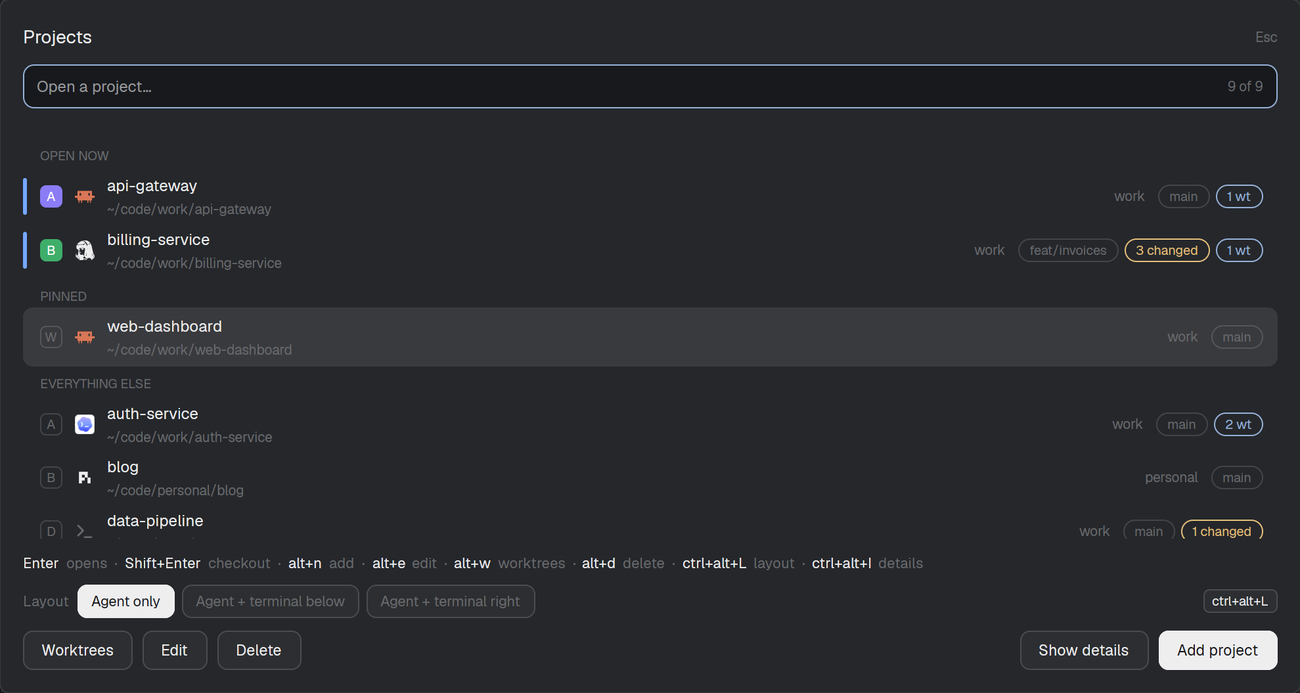
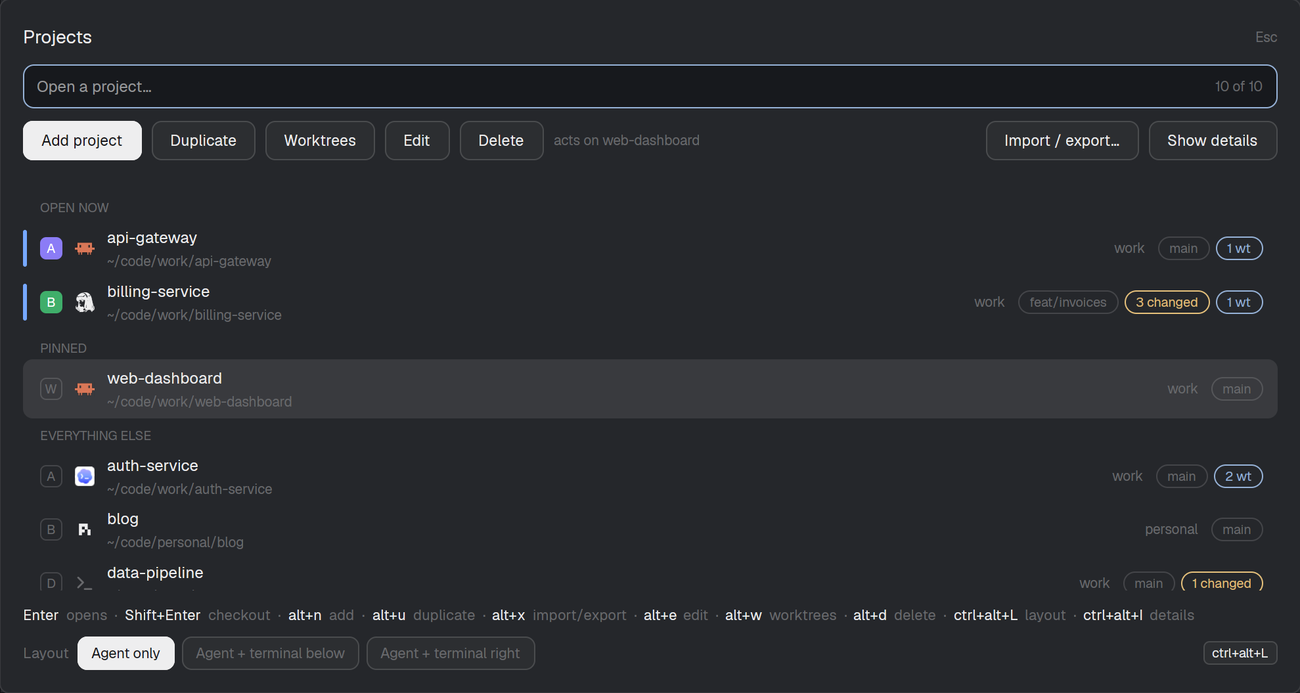
Retake the screenshots and tour GIF; cmd+alt+B goes back on a Mac
- Every README screenshot, preview.png and the tour GIF are retaken with demo projects: the
  toolbar under the search box, the Template row and the new key hints. New screenshots for
  the Template card, the Duplicate editor and the Import / export screen, in the README.
- herdr owns cmd+B on a Mac, so the way back there is cmd+alt+B (like the layout and
  details keys); Linux keeps alt+b. Titles and hints show the right one per platform.
- The demo file accepts view: duplicate (a copy of the project, or a new project from the
  template). Tests: 219.

diff --git a/mods/project-presets/main.js b/mods/project-presets/main.js
@@ -1,6 +1,6 @@
 // Project presets: a picker of configured git checkouts, each with its own worktree and startup
 // settings. Type to filter, ↑/↓ and Enter to open, Shift+Enter for the main checkout, Add project / Edit / Worktrees / Delete
-// buttons (or alt/ctrl/cmd + n, e, w, d), alt/ctrl/cmd + b to go back a screen. Herdr itself closes a popup on Esc and
+// buttons (or alt/ctrl/cmd + n, e, w, d), alt+b (cmd+alt+B on a Mac) to go back a screen. Herdr itself closes a popup on Esc and
 // never passes that key to the mod, so Esc can only close the picker.
 
 import { View, div, image, svg } from "gpui-kit";
@@ -22,6 +22,8 @@ const mac = () => platformNow === "macos";
 let homeDir;
 const homeOf = () => (homeDir ??= home());
 const key = (letter, other = "alt") => (mac() ? `⌘${letter.toUpperCase()}` : `${other}+${letter}`);
+/** The way back a screen. Herdr closes a popup on Esc itself, and it owns cmd+B on a Mac, so a Mac gets the cmd+alt chord (like the layout and details keys). */
+const backKey = () => (mac() ? "⌘⌥B" : "alt+b");
 // Herdr binds a bare alt+l to moving between panes, so the layout key needs ctrl (⌘ on macOS) as well, like the open key.
 const FOOTER_SIZE = 12;
 const LAYOUT_HINT = () => (mac() ? "⌘⌥L" : "ctrl+alt+L");
@@ -190,7 +192,8 @@ export default class ProjectPresets extends View {
       this.edit(project ?? blankProject(), project ? this.projects.indexOf(project) : null);
       if (d.section) this.showSection(d.section);
       if (d.focus) this.fields.find(([k]) => k === d.focus)?.[1].focus();
-    } else if (d.view === "backup") {
+    } else if (d.view === "duplicate") this.duplicateSelected(); // a copy of the project, or a new project from the template when that row is picked
+    else if (d.view === "backup") {
       this.openBackup();
       if (d.text) this.backupPath.set_value(d.text);
       if (d.note) this.backupNote = { text: d.note, bad: Boolean(d.bad) };
@@ -292,7 +295,7 @@ export default class ProjectPresets extends View {
   footer(t, p, list) {
     const hints = list
       ? [["Enter", "opens"], ["Shift+Enter", "checkout"], [key("n"), "add"], [key("u"), "duplicate"], [key("x"), "import/export"], [key("e"), "edit"], [key("w"), "worktrees"], [key("d"), "delete"], [LAYOUT_HINT(), "layout"], [DETAIL_HINT(), "details"]]
-      : [["Enter", "creates"], [key("b"), "back"], ["Esc", "closes"]];
+      : [["Enter", "creates"], [backKey(), "back"], ["Esc", "closes"]];
     const current = this.layoutNameFor(p);
     const lit = this.layoutLit;
     const choice = (name, label) => {
@@ -683,7 +686,7 @@ export default class ProjectPresets extends View {
       this.backupConfirm = null;
       const missing = [];
       for (const p of added) if (!p.template && p.path && !(await folderExists(expandHome(p.path, homeOf())))) missing.push(p.name);
-      this.setNote(missing.length ? `${summary} ${missing.length} folder(s) don't exist on this machine: ${missing.slice(0, 5).join(", ")}${missing.length > 5 ? "…" : ""}. Go back (${key("b")}), then press ${key("e")} on each to fix its folder.` : summary);
+      this.setNote(missing.length ? `${summary} ${missing.length} folder(s) don't exist on this machine: ${missing.slice(0, 5).join(", ")}${missing.length > 5 ? "…" : ""}. Go back (${backKey()}), then press ${key("e")} on each to fix its folder.` : summary);
     } catch (e) {
       logError("import", e);
       this.setNote(`Import failed: ${e.message}`, true);
@@ -714,7 +717,7 @@ export default class ProjectPresets extends View {
   renderBackup(t, cx) {
     const confirmAction = this.backupConfirm;
     return v_flex().gap(10)
-      .child(this.title(t, "Import and export config", `${key("b")} back · Esc closes`))
+      .child(this.title(t, "Import and export config", `${backKey()} back · Esc closes`))
       .child(div().text_size(12).text_color(t.dim).child("Export saves your project list, layouts and settings to one file. Import brings them back, on this machine or another. Paths under your home folder are saved as ~, so an exported file works on a machine with a different user name."))
       .child(div().text_size(11.5).text_color(t.dim).child("File"))
       .child(h_flex().gap(8).items_center()
@@ -1026,7 +1029,7 @@ export default class ProjectPresets extends View {
       .when(w.locked, (el) => el.child(div().text_size(11).text_color(t.blocked).child("locked")))
       .child(div().text_size(11).text_color(w.merged ? t.done : t.dim).child(w.merged ? "merged" : "unmerged"));
     return v_flex().gap(10).min_h(0)
-      .child(this.title(t, `Worktrees · ${this.target.name}`, `${key("b")} back · Esc closes`))
+      .child(this.title(t, `Worktrees · ${this.target.name}`, `${backKey()} back · Esc closes`))
       .child(h_flex().h(36).flex_none().px(10).items_center().rounded(9).border_1().border_color(t.accent).bg(t.background)
         .child(Input.new(this.wtSearch).flex_1().h_full().text_size(12.8).text_color(t.foreground)))
       .when(Boolean(this.error), (el) => el.child(div().text_size(12).text_color(t.blocked).child(this.error)))
@@ -1049,7 +1052,7 @@ export default class ProjectPresets extends View {
   renderName(t) {
     const p = this.target;
     return v_flex().gap(10)
-      .child(this.title(t, `New worktree · ${p.name}`, `${key("b")} back · Esc closes`))
+      .child(this.title(t, `New worktree · ${p.name}`, `${backKey()} back · Esc closes`))
       .child(h_flex().h(36).px(10).items_center().rounded(9).border_1().border_color(t.accent).bg(t.background)
         .child(Input.new(this.nameInput).flex_1().h_full().text_size(12.8).text_color(t.foreground)))
       .child(div().text_size(12).text_color(this.error ? t.blocked : t.dim).child(this.error ?? (this.preview ? `branch: ${this.preview}` : "")))
@@ -1135,7 +1138,7 @@ export default class ProjectPresets extends View {
       ],
     };
     return v_flex().gap(0).min_h(0)
-      .child(this.title(t, { add: "Add project", edit: "Edit project", duplicate: "Duplicate project", template: "Edit template", fromTemplate: "New project from the template" }[this.editKind ?? "add"], `Tab next field · ${key("s", "ctrl")} save · ${key("b")} back · Esc closes`))
+      .child(this.title(t, { add: "Add project", edit: "Edit project", duplicate: "Duplicate project", template: "Edit template", fromTemplate: "New project from the template" }[this.editKind ?? "add"], `Tab next field · ${key("s", "ctrl")} save · ${backKey()} back · Esc closes`))
       .child(h_flex().pt(10).gap(6)
         .children(SECTIONS.map(([id, name]) => this.button(t, `pp-sec-${id}`, name, this.section === id, () => this.showSection(id)))))
       .child(v_flex().min_h(0).h(430).overflow_y_scrollbar().pr(8).children(sections[this.section]()))

diff --git a/mods/project-presets/demo.js b/mods/project-presets/demo.js
@@ -1,6 +1,6 @@
 // Documentation screenshots: `~/.config/herdr-app/data/project-presets.demo` (JSON) opens the picker
 // already in a given view, so each screen can be captured the same way every time. Absent by default.
-//   { "view": "list|edit|delete|name|worktrees|backup|busy", "project": "api-gateway", "query": "apgw",
+//   { "view": "list|edit|delete|name|worktrees|backup|duplicate|busy", "project": "api-gateway", "query": "apgw",
 //     "focus": "agent", "text": "fix login", "tick": true, "confirm": true, "notes": ["…"],
 //     "detail": true|false (show or hide the detail card), "layout": "agent-terminal" (a layout picked for the launch) }
 import * as fs from "fs/promises";

diff --git a/README.md b/README.md
@@ -102,12 +102,18 @@ Settings are split into four sections.
 
 The last row of the list is a **Template**: a project with no folder and some starting settings (Claude Code, the agent + terminal-below layout, ask for a branch name). It is a starting point, not something you open.
 
+![The Template row selected: its card and Use template](docs/screenshots/19-template.png)
+
 - **Make your defaults once.** Select the Template and press **alt+e** (**⌘E**), set the agent, layout, worktree and git settings you want your projects to share, and save. A saved template has no folder, so saving never asks for one.
 - **Make a project from it.** Select the Template and press **Enter** (or click Use template). The editor opens on a new project with the template's settings; give it a name and a folder (Browse…) and save. The Template stays for the next one. Once you have saved the template, **Add project** (**alt+n**) starts from its settings too.
 - **Duplicate any project** with **alt+u** (**⌘U**) or the Duplicate button. The editor opens on a copy named `<name> copy` (then `copy 2`, …) with the same folder and settings, not pinned; change what differs and save. It is the quick way to open one repository with another agent, layout or worktree mode.
+![Duplicating a project: the editor opens on a copy](docs/screenshots/20-duplicate.png)
+
 - **Remove the template** with Delete if you don't want the row; it stays gone. To bring it back, delete `"hideTemplate"` from `~/.config/herdr-app/data/project-presets.json`.
 
 ### Importing and exporting your config
+
+![Import and export config](docs/screenshots/21-import-export.png)
 
 **Import / export…** (**alt+x**, **⌘X**) opens a screen with a file box (default `~/Downloads/project-presets-config-<date>-<time>.json`, so each export gets its own file; Browse… picks the folder) and three buttons:
 
@@ -115,7 +121,7 @@ The last row of the list is a **Template**: a project with no folder and some st
 - **Import: merge** adds the projects in the file that you don't have (same name and folder) and any layouts with new names. Yours are never changed or removed.
 - **Import: replace** makes your list exactly the exported file. It asks you to click again, and first saves your current file as `project-presets.json.bak` next to it.
 
-After an import the screen lists any project whose folder doesn't exist on this machine; go back (**alt+b**) and press **alt+e** on it to point it at the right folder. To move to a new machine: Export on the old one, copy the file across, Import on the new one (merge is enough if it's empty).
+After an import the screen lists any project whose folder doesn't exist on this machine; go back (**alt+b**, **⌘⌥B** on a Mac) and press **alt+e** on it to point it at the right folder. To move to a new machine: Export on the old one, copy the file across, Import on the new one (merge is enough if it's empty).
 
 ### Cleaning up worktrees
 
@@ -160,7 +166,7 @@ rsync -a --delete --exclude='*.d.ts' ~/code/project-presets/mods/project-presets
 
 Only errors are logged by default. Debug logging is **off** unless you turn it on.
 
-**Esc closes the whole popup instead of going back.** Herdr closes a popup on Esc itself and never passes the key to the mod, so the picker can't use it to go back. Use **alt+b** (**⌘B**) to go back one screen (from the editor, Worktrees, Import / export…), or click Back / Cancel. Esc still closes the picker.
+**Esc closes the whole popup instead of going back.** Herdr closes a popup on Esc itself and never passes the key to the mod, so the picker can't use it to go back. Use **alt+b** (**⌘⌥B** on a Mac, since herdr uses ⌘B itself) to go back one screen (from the editor, Worktrees, Import / export…), or click Back / Cancel. Esc still closes the picker.
 
 **The shortcut does nothing right after launching herdr-app with no space open.** The window has no pane to hold the keyboard yet, so herdr doesn't see the key. Click once in the window (the "No space open." area), then press the shortcut; once you've had a space open it keeps working. This is herdr-app, not the mod: the shortcut is handled by herdr before the mod runs. Running `herdr-app do mod.open '{"name":"project-presets"}'` from a terminal is another way to open the picker.
 

diff --git a/RECIPE.md b/RECIPE.md
@@ -24,7 +24,7 @@ The editor replaces the list in the same popup, in four sections chosen by butto
   - `always`: create a worktree and open a space on it. The `{slug}` part is the time (HHMMSS).
   - `ask`: a name step appears with a live preview of the resulting branch; Enter creates it. Empty name uses the time.
 - **Shift+Enter** always means the main checkout, whatever the mode (same steps as `never`).
-- With alt, ctrl or cmd held (⌘ on macOS): **w** (or the Worktrees button) opens worktree cleanup, **d** (or Delete) removes the project from the list after a second press, **n** (or Add project) adds a project, **e** (or Edit) edits the highlighted one, **s** saves, **Tab** moves between fields, **alt+b** (**⌘B**) goes back one screen (not a bracket key: herdr binds alt-[ and alt-] to tabs and acts on them before the popup sees them); **Esc** closes the popup (herdr closes a popup on Esc itself and never gives the key to the mod, so the mod's own Esc branch only runs outside a popup; the debug log showed no `key escape` line).
+- With alt, ctrl or cmd held (⌘ on macOS): **w** (or the Worktrees button) opens worktree cleanup, **d** (or Delete) removes the project from the list after a second press, **n** (or Add project) adds a project, **e** (or Edit) edits the highlighted one, **s** saves, **Tab** moves between fields, **alt+b** (**⌘⌥B** on a Mac: herdr owns ⌘B, so the Mac gets the cmd+alt chord like the layout and details keys) goes back one screen (not a bracket key: herdr binds alt-[ and alt-] to tabs and acts on them before the popup sees them); **Esc** closes the popup (herdr closes a popup on Esc itself and never gives the key to the mod, so the mod's own Esc branch only runs outside a popup; the debug log showed no `key escape` line).
 - While working, the popup lists progress lines (`git fetch origin…`, `git worktree add …`, `$ <setup command>`) and Esc does nothing; for a "typed after start" prompt it stays open, with a "Waiting for the agent…" line, until the prompt is sent, then closes. An error stays on screen until Esc.
 - Worktree creation: `git fetch <remote>` (a failure is logged and the local ref is used), then `git worktree add --no-track -b <branch> <folder> <remote>/<base>`. A taken branch or folder gets `-2`, `-3`… up to `-20`.
 - Fast-forward only happens on the checkout when it is on the base branch, clean, and can fast-forward.

diff --git a/CONTRIBUTING.md b/CONTRIBUTING.md
@@ -56,7 +56,7 @@ Use a throwaway git repo as your test project so you don't create worktrees in r
 
 ## Screenshots
 
-To capture a view for the docs, create `~/.config/herdr-app/data/project-presets.demo` containing JSON, then reopen the picker (`herdr-app do mod.open '{"name":"project-presets"}'`) and take `herdr-app shot`. The file opens the picker already in a view: `{ "view": "list|edit|delete|name|worktrees|busy", "project": "<name>", "query": "…", "section": "project|worktree|git|startup", "text": "…", "tick": true, "confirm": true, "notes": ["…"], "detail": true, "layout": "<layout name>" }`. Delete the file afterwards. Use demo projects rather than your own, and keep private repository names out of the images.
+To capture a view for the docs, create `~/.config/herdr-app/data/project-presets.demo` containing JSON, then reopen the picker (`herdr-app do mod.open '{"name":"project-presets"}'`) and take `herdr-app shot`. The file opens the picker already in a view: `{ "view": "list|edit|delete|name|worktrees|backup|duplicate|busy", "project": "<name>", "query": "…", "section": "project|worktree|git|startup", "text": "…", "tick": true, "confirm": true, "notes": ["…"], "detail": true, "layout": "<layout name>" }`. Delete the file afterwards. Use demo projects rather than your own, and keep private repository names out of the images.
 
 ## Code conventions
 
